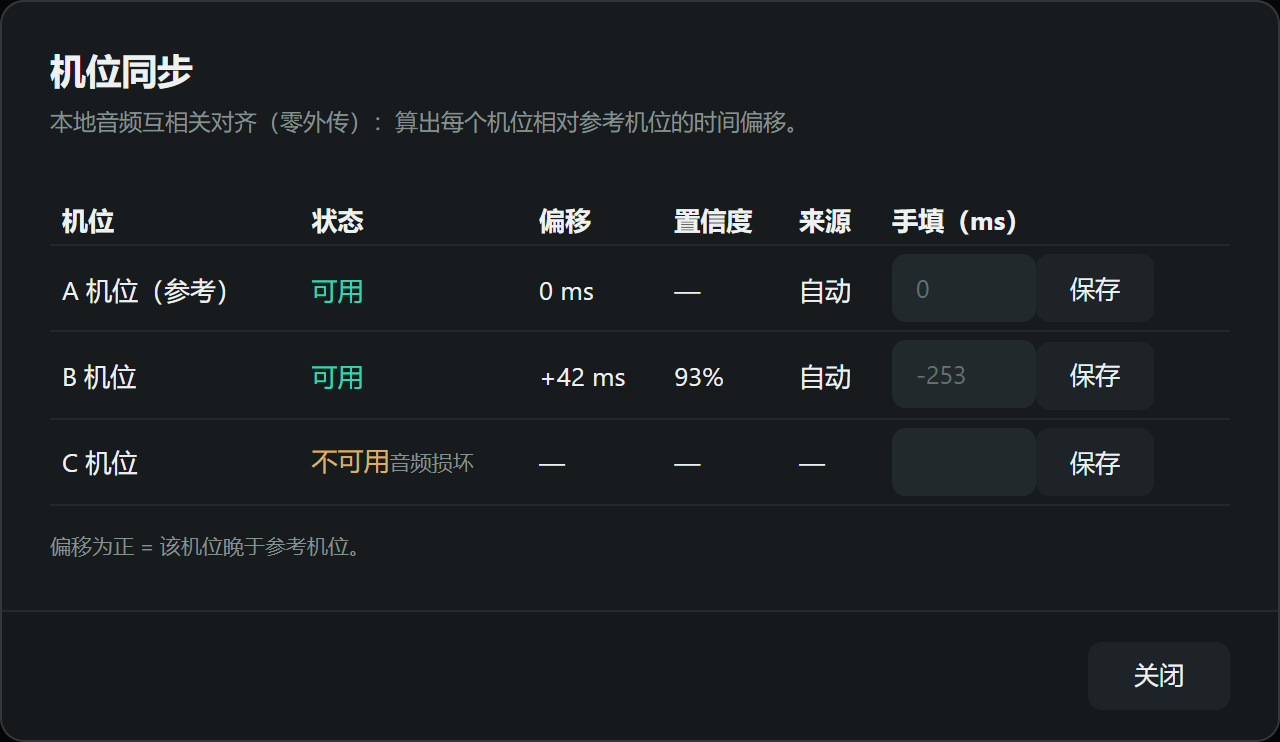
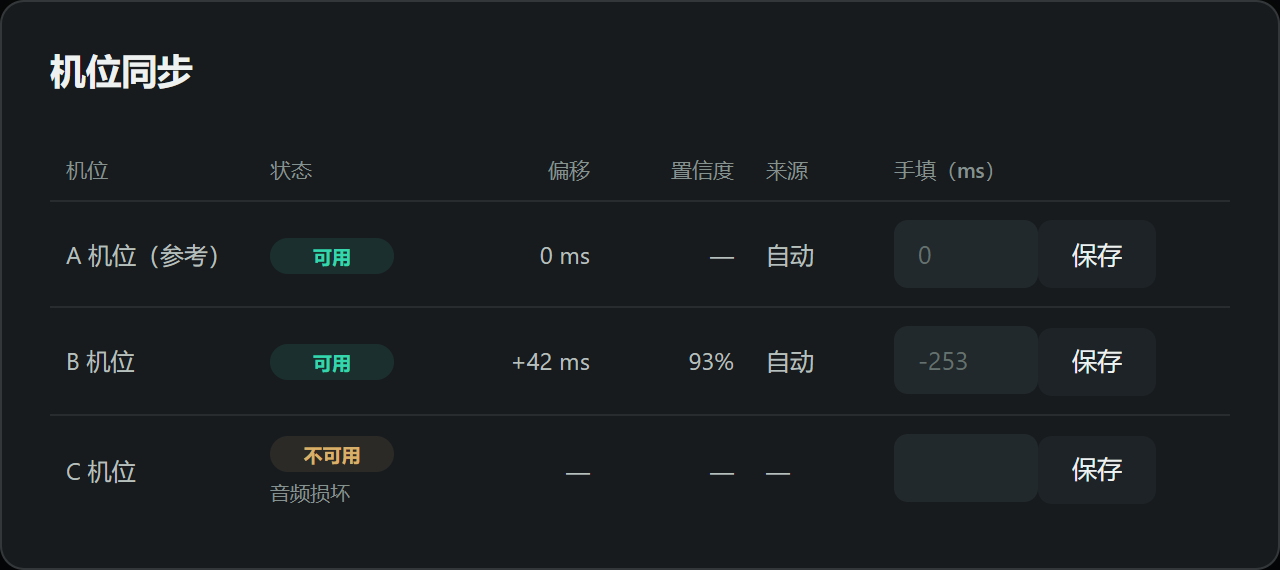
fix(ui): 机位同步表头与数据对齐——状态列表头 left、数据 center，错位 22px
用户看图追问：「左对齐还是右对齐还是中间对齐，需要和其他弹窗统一起来」。

## 实测确诊

用 getComputedStyle 逐列比对表头与 td 的 text-align：

| 列 | 表头 | 数据 | 一致 |
|---|---|---|---|
| 机位 | left | left | ✓ |
| **状态** | **left** | **center（定宽徽章）** | **✗** |
| 偏移 | right | right | ✓ |
| 置信度 | right | right | ✓ |
| 来源 | left | left | ✓ |
| 手填 | left | left | ✓ |

状态列表头文字左缘 455、徽章左缘 477，错位 22px。

## 一度改错（记录以免重犯）

第一版只把 th 改成 center、没动 td，测出来仍差 6px。
因为 td 仍是 left，而定宽 62px 的徽章靠自身居中"伪装"成居中——
**表头改了、数据没改**时，肉眼看着像对齐了，实际两个格子对齐方式不同。
真正的判据不是量边缘或量中心，而是逐列比 text-align。

## 修法

th:nth-child(2) 与 td:nth-child(2) 同时设 center。

## 与其他弹窗的一致性

keyframe / 语义检索两个弹窗**没有表头**，不存在此问题；三者共用
「状态徽章定宽 62px 居中」这条契约，本轮未破例。

## 测试

angle-sync-table.test.ts 新增「表头与数据同对齐」6 条（每列一条），
逐列断言 th 与 td 的 text-align。变异验证：只保留 th 居中、去掉 td
⇒ 精确变红「第 2 列数据应为 center: expected 'left' to be 'center'」。

## 证据

evidence/2026-11-09-dialog-family-c/ 的 anglesync-before/after.png 已重拍，
README 补记本轮对齐修正与六列对齐理由表。

Desktop 133 文件 / 1230 用例通过；typecheck 与 lint 通过。

diff --git a/apps/desktop/tests/angle-sync-table.test.ts b/apps/desktop/tests/angle-sync-table.test.ts
@@ -116,6 +116,37 @@ describe("机位同步表格：数字列右对齐", () => {
   });
 });
 
+describe("机位同步表格：表头与数据同对齐（表格的基本契约）", () => {
+  /**
+   * 用户实测指出：「左对齐还是右对齐还是中间对齐，需要和其他弹窗统一起来」。
+   *
+   * 实测到的问题：状态列表头是 left，而 td 内是定宽 62px 居中的徽章——
+   * 视觉上表头偏左 22px，看着就是错位。
+   *
+   * 表格的基本契约是「表头与它管辖的数据同对齐方式」。这里逐列断言，
+   * 而不是只看一眼截图：新增列时若忘了对齐，这条会红。
+   */
+  const ALIGN_CASES: Array<[string, number, string]> = [
+    ["机位", 1, "left"],
+    ["状态", 2, "center"],
+    ["偏移", 3, "right"],
+    ["置信度", 4, "right"],
+    ["来源", 5, "left"],
+    ["手填", 6, "left"],
+  ];
+
+  it.each(ALIGN_CASES)("第 %s 列：表头与数据同为 %s", (_label, col, align) => {
+    const th = T + " th:nth-child(" + col + ")";
+    const td = T + " td:nth-child(" + col + ")";
+    // 注意：.angle-sync-table td 的基样式是 left，右/中列必须有专属规则；
+    // 只改 th 不改 td（或反之）正是本次的缺陷形态。
+    const thAlign = effective(th, "text-align") ?? effective(T + " th", "text-align");
+    const tdAlign = effective(td, "text-align") ?? effective(T + " td", "text-align");
+    expect(thAlign, `第 ${col} 列表头应为 ${align}`).toBe(align);
+    expect(tdAlign, `第 ${col} 列数据应为 ${align}`).toBe(align);
+  });
+});
+
 describe("机位同步表格：布局不塌陷", () => {
   it("显式 table-layout:fixed，避免剩余宽度摊给状态列", () => {
     // 实测：auto 布局把状态列撑到 144px，内部只有 62px 徽章 → 出现大段空白

diff --git a/apps/desktop/src/styles.css b/apps/desktop/src/styles.css
@@ -2183,6 +2183,14 @@ body.pp-scrubbing, body.pp-scrubbing * { cursor: ew-resize !important; user-sele
 }
 .angle-sync-modal .angle-sync-table td small:empty { display: none; }
 
+/* 状态列的表头必须与它管辖的数据对齐。
+   实测：表头「状态」文字左缘 455，徽章左缘 477 —— 差 22px，看着就是错位。
+   根因：徽章定宽 62px 且居中，表头却按列左缘左对齐。
+   修法让表头居中（与徽章一致），而不是把徽章改左对齐——定宽居中是
+   keyframe / 语义检索 / 机位同步三个弹窗共用的契约，不为一张表破例。 */
+.angle-sync-modal .angle-sync-table th:nth-child(2),
+.angle-sync-modal .angle-sync-table td:nth-child(2) { text-align: center; }
+
 /* 状态徽章：固定 62px，与 keyframe / 语义检索同一契约。
    纯色文字会让「可用」与「不可用」宽度不同，把后面的偏移列推歪。 */
 .angle-sync-modal .angle-status {

diff --git a/evidence/2026-11-09-dialog-family-c/README.md b/evidence/2026-11-09-dialog-family-c/README.md
@@ -79,6 +79,28 @@
 
 **列宽实测**（改后）：机位 102 / 状态 92 / 偏移 84 / 置信度 72 / 来源 64 / 手填 176。
 
+### 表头与数据对齐（用户二次指出后修正）
+
+用户看图后追问：「左对齐还是右对齐还是中间对齐，需要和其他弹窗统一起来」。
+
+实测确认问题在**状态列**：表头 `text-align: left`，而 td 内是定宽 62px 居中的徽章，
+视觉上表头偏左 22px。修法是把该列的 **th 与 td 都设为 center**（只改 th 不够——
+td 仍是 left，定宽徽章靠自身居中"伪装"成居中，这也是我第一版改错的地方）。
+
+六列最终对齐方式（表头 = 数据）：
+
+| 列 | 对齐 | 理由 |
+|---|---|---|
+| 机位 | left | 变长文本 |
+| 状态 | **center** | 定宽徽章居中，表头须跟随 |
+| 偏移 | right | 数字列，便于纵向比较 |
+| 置信度 | right | 数字列 |
+| 来源 | left | 短文本 |
+| 手填 | left | 表单控件 |
+
+> 与其他弹窗的一致性：keyframe / 语义检索两个弹窗**没有表头**，不存在此问题；
+> 三者共用的是「状态徽章定宽 62px 居中」这条契约，本轮未破例。
+
 ---
 
 ## 一处遗留（未在本轮范围）
